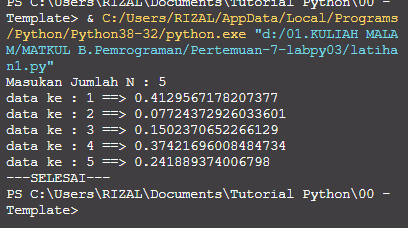
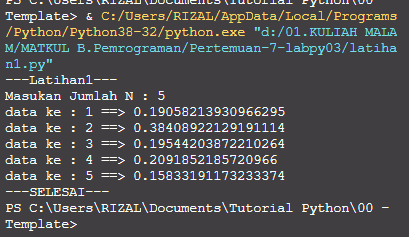
update README.md

Changed region(s): [[0.0, 0.0, 1.0, 0.9825]]

diff --git a/latihan2.py b/latihan2.py
@@ -1,0 +1,11 @@
+#latihan 2
+print("---Latihan2---")
+max=0
+while True:
+    a = int(input('Masukan Bilangan = '))
+    if max < a:
+        max = a
+    if a==0:
+        break
+print("Bilangan Terbesarnya Adalah = ",max)
+print("---SELESAI---")

diff --git a/latihan1.py b/latihan1.py
@@ -1,4 +1,5 @@
 #latihan 1
+print("---Latihan1---")
 print ("Masukan Jumlah N : 5 ")
 import random
 jumlah = 5

diff --git a/README.md b/README.md
@@ -24,6 +24,7 @@ Berikut source code yang saya buat :<br>
 
 ```python
 #latihan 1
+print("---Latihan1---")
 print ("Masukan Jumlah N : 5 ")
 import random
 jumlah = 5
@@ -34,7 +35,7 @@ for x in range (jumlah):
         print('data ke :',a,'==>', i)
 print("---SELESAI---")
 ```
-Berikut hasil run syntax diatas :<br>
+Berikut hasil run syntax latihan1 diatas :<br>
 
 ![hasil running](pict/hasillatihan1.PNG)<br>
 
@@ -42,16 +43,31 @@ Berikut hasil run syntax diatas :<br>
 # Algoritma
 **Membuat program untuk menampilkan bilangan terbesar dari n buah data yang diinputkan**<br><br>
 **Masukkan angka 0 untuk berhenti**<br>
-* Mulai*<br>
-* Mencetak "latihan 2"*<br>
-* Mencetak "menampilkan bilangan, berhenti ketika bilangan 0, menampilkan bilangan terbesar"*<br>
-* integer max = 0*<br>
-* Menggunakan fungsi perulangan while true, hingga menampilkan perulangan sampai batas tertentu.*<br>
-* Memasukan bilangan integer pada "a"*<br>
-* Menggunakan fungsi if jika max kurang dari nilai a, maka max sama dengan a*<br>
-* Mengunakan fungsi if jika nilai a adalah 0 maka fungsi break artinya perulangan berhenti jika menulis nilai 0.*<br>
-* Mencetak nilai paling terbesarv setelah break, sehingga menampilkan nilai terbesar diantara bilangan tersebut dalam perulangan.*<br>
-* Selesai*<br><br>
+* Mulai<br>
+* Mencetak "latihan 2"<br>
+* Mencetak "menampilkan bilangan, berhenti ketika bilangan 0, menampilkan bilangan terbesar"<br>
+* integer max = 0<br>
+* Menggunakan fungsi perulangan while true, hingga menampilkan perulangan sampai batas tertentu.<br>
+* Memasukan bilangan integer pada "a"<br>
+* Menggunakan fungsi if jika max kurang dari nilai a, maka max sama dengan a<br>
+* Mengunakan fungsi if jika nilai a adalah 0 maka fungsi break artinya perulangan berhenti jika menulis nilai 0.<br>
+* Mencetak nilai paling terbesarv setelah break, sehingga menampilkan nilai terbesar diantara bilangan tersebut dalam perulangan.<br>
+* Selesai<br><br>
 Berikut source code yang saya buat :<br>
 
 ```python
+#latihan 2
+print("---Latihan2---")
+max=0
+while True:
+    a = int(input('Masukan Bilangan = '))
+    if max < a:
+        max = a
+    if a==0:
+        break
+print("Bilangan Terbesarnya Adalah = ",max)
+print("---SELESAI---")
+```
+Berikut hasil run syntax latihan2 diatas :<br>
+
+![hasil running](pict/hasillatihan2.PNG)<br>
